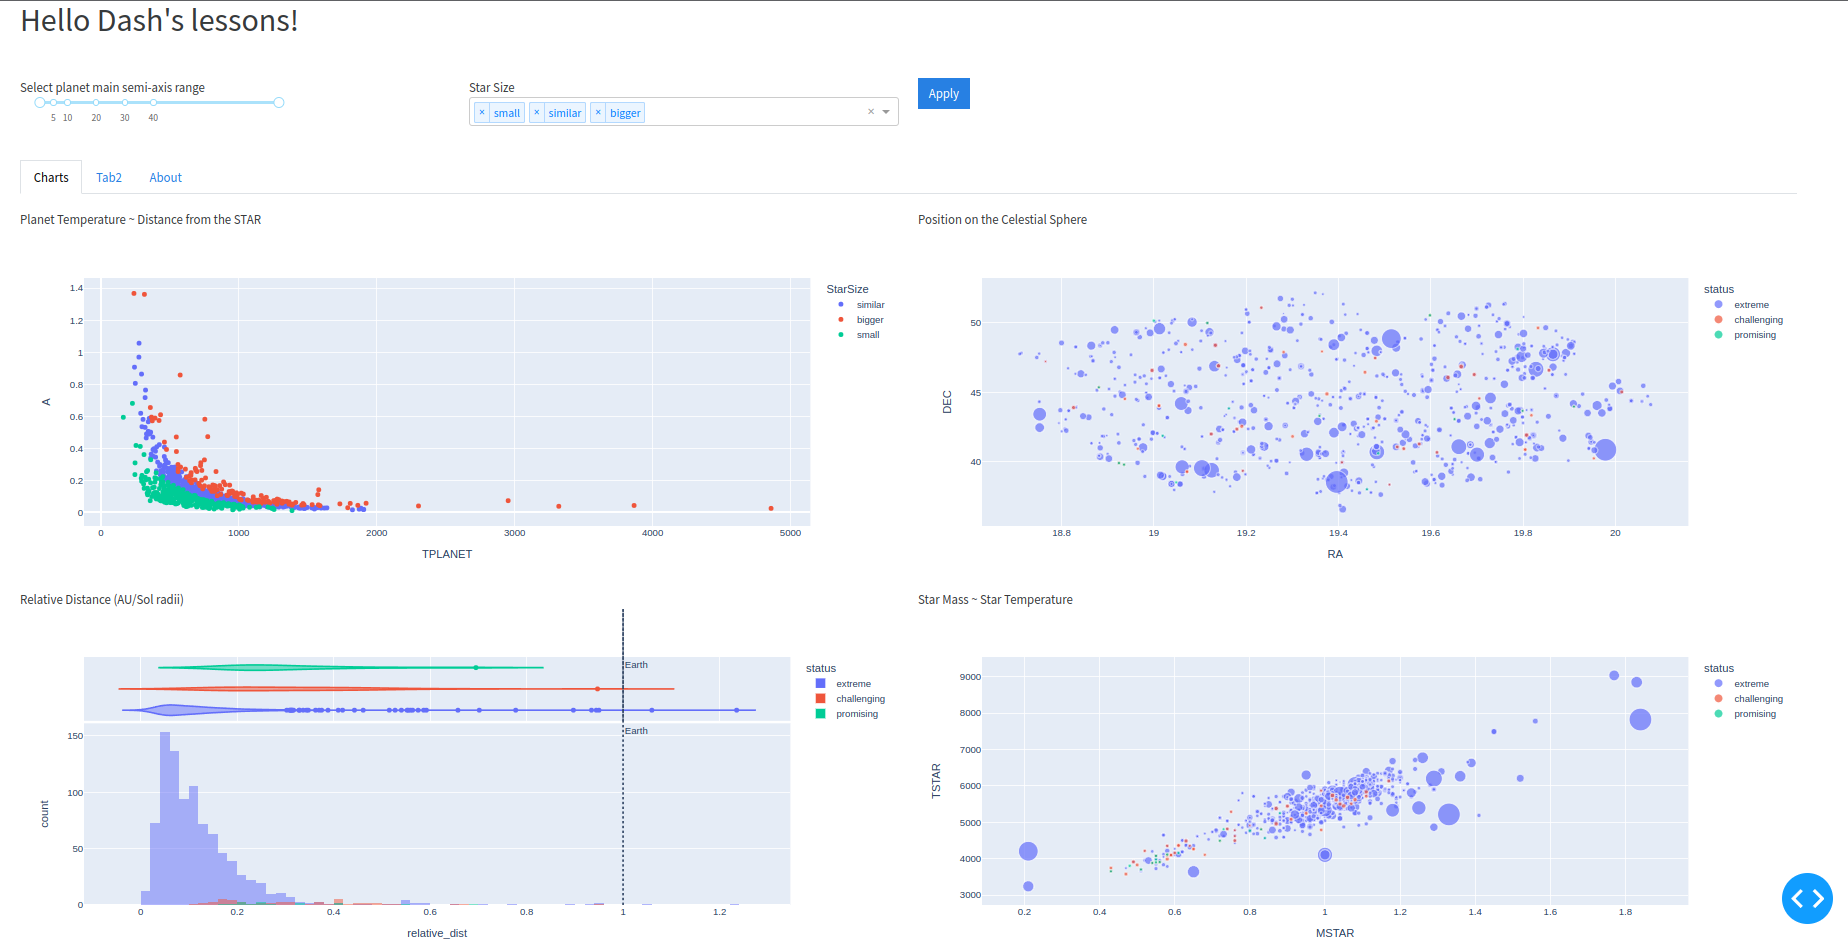
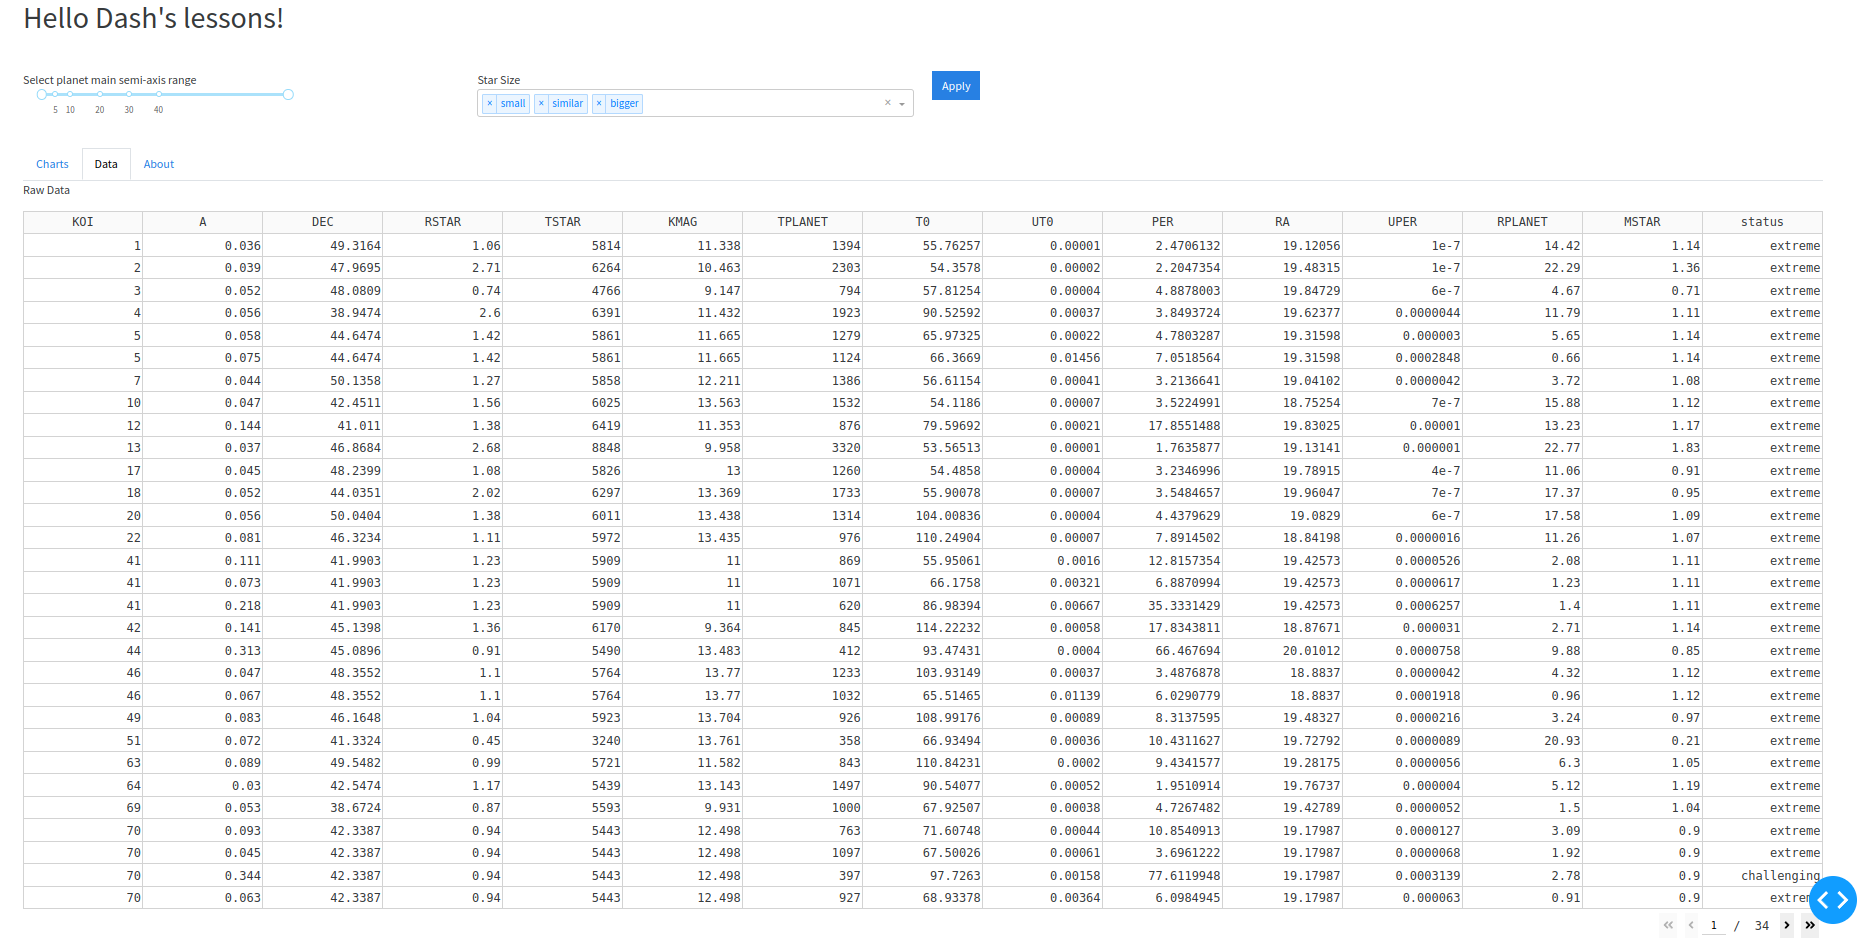
End lesson 11

diff --git a/dash_layout/layout.py b/dash_layout/layout.py
@@ -1,19 +1,10 @@
 from dash import html, dcc, Dash
 import dash_bootstrap_components as dbc
 
+from dash_tabs.tabs import get_tab_charts
 
-# Charts ~~~~~~~~~~~~~~~~~~~~~~~
-tab1_content = [dbc.Row([
-                    dbc.Col([html.Div(id='dist-temp-chart')], md=6),
-                    dbc.Col([html.Div(id='celestial-chart')], md=6)
-                ],
-                    style={'margin-top': 20}
-                ),
-                dbc.Row([
-                    dbc.Col(html.Div(id='relative-dist-chart'), md=6),
-                    dbc.Col(html.Div(id='mstar-tstar-chart'), md=6)
-                ])
-            ]
+
+tab_charts = get_tab_charts()
 
 
 def get_layout(app: Dash, selectors_dict: dict):
@@ -45,8 +36,8 @@ def get_layout(app: Dash, selectors_dict: dict):
             style={'margin-bottom': 40}
         ),
         dbc.Tabs([
-            dbc.Tab(tab1_content, label='Charts'),
-            dbc.Tab(html.Div('Tab 2 Content'), label='Tab2'),
+            dbc.Tab(tab_charts, label='Charts'),
+            dbc.Tab(dbc.Row(html.Div(id='raw-data-table')), label='Data'),
             dbc.Tab(html.Div('About Page'), label='About')
         ])
     ],

diff --git a/dash_tabs/tabs.py b/dash_tabs/tabs.py
@@ -1,0 +1,18 @@
+import dash_bootstrap_components as dbc
+from dash import html
+
+
+def get_tab_charts():
+    tab = [dbc.Row([
+        dbc.Col([html.Div(id='dist-temp-chart')], md=6),
+        dbc.Col([html.Div(id='celestial-chart')], md=6)
+    ],
+        style={'margin-top': 20}
+    ),
+        dbc.Row([
+            dbc.Col(html.Div(id='relative-dist-chart'), md=6),
+            dbc.Col(html.Div(id='mstar-tstar-chart'), md=6)
+        ])
+    ]
+
+    return tab

diff --git a/dash_df/planet_df.py b/dash_df/planet_df.py
@@ -8,6 +8,7 @@ def get_planet_df():
     response = requests.get(url=url)
     df = pd.json_normalize(response.json())
     df = df[df['PER'] > 0]
+    df['KOI'] = df['KOI'].astype(int, errors='ignore')
 
     # для разбивки на категории относительно размера солнца: 0-80%, 80-120%, 120-1000%
     bins_sun_size = [0, 0.8, 1.2, 100]

diff --git a/README.md b/README.md
@@ -1,15 +1,15 @@
 # Изучение библиотеки python **Dash**
-### Урок #10: создаем вкладки.
+### Урок #11: таблица с данными.
 
-:tv: Видео [Plotly Dash #10][1]
+:tv: Видео [Plotly Dash #11][1]
 
 1. **Documents** [Dash Plotly](https://dash.plotly.com/layout)
 2. **Youtube playlist** [Plotly Dash - 🚀дашборд в Python🐍](https://www.youtube.com/watch?v=HExq59HlFb0&list=PLIAV3wuAPHZouwZlmvqmC-djRsaDKT8rC&index=1)
 
 ---
-####  Урок #10
+####  Урок #11
 
 ![Lesson's dash](lesson.png)
 
 
-[1]: https://www.youtube.com/watch?v=zQHRFHWLk1M&list=PLIAV3wuAPHZouwZlmvqmC-djRsaDKT8rC&index=10
+[1]: https://www.youtube.com/watch?v=42StTv2fjiA&list=PLIAV3wuAPHZouwZlmvqmC-djRsaDKT8rC&index=11
